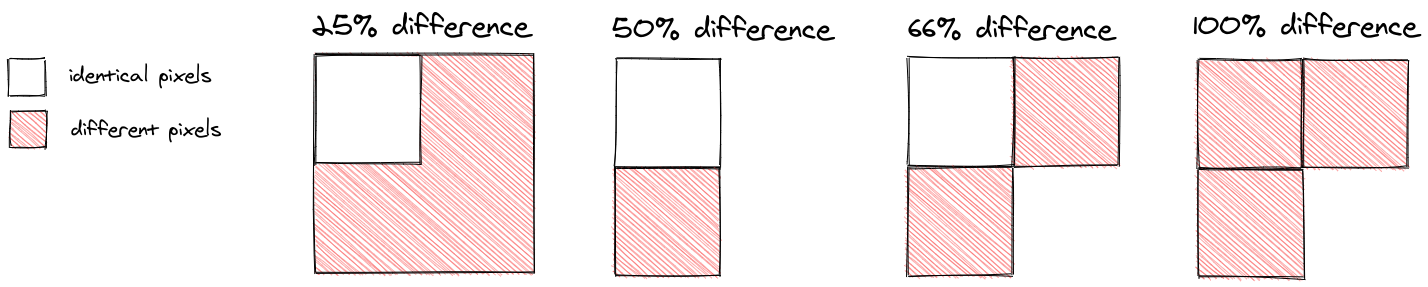
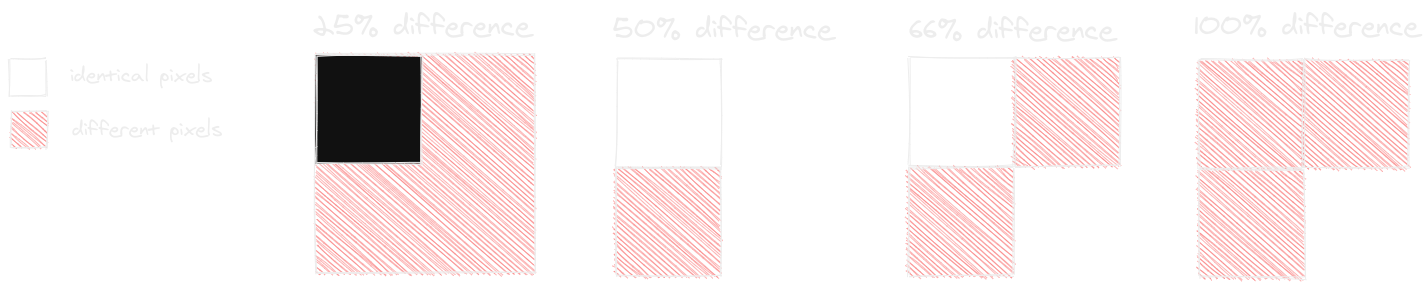
docs: Update PixelDiffer images
Disable switching to light theme since the new images only work with the
dark theme.

diff --git a/packages/website/docusaurus.config.js b/packages/website/docusaurus.config.js
@@ -35,7 +35,9 @@ module.exports = {
       copyright: `Copyright © ${new Date().getFullYear()} Andrei Picus. Built with Docusaurus.`,
     },
     colorMode: {
+      // Images are designed to only work with the dark theme.
       defaultMode: 'dark',
+      disableSwitch: true,
     },
   },
   presets: [
